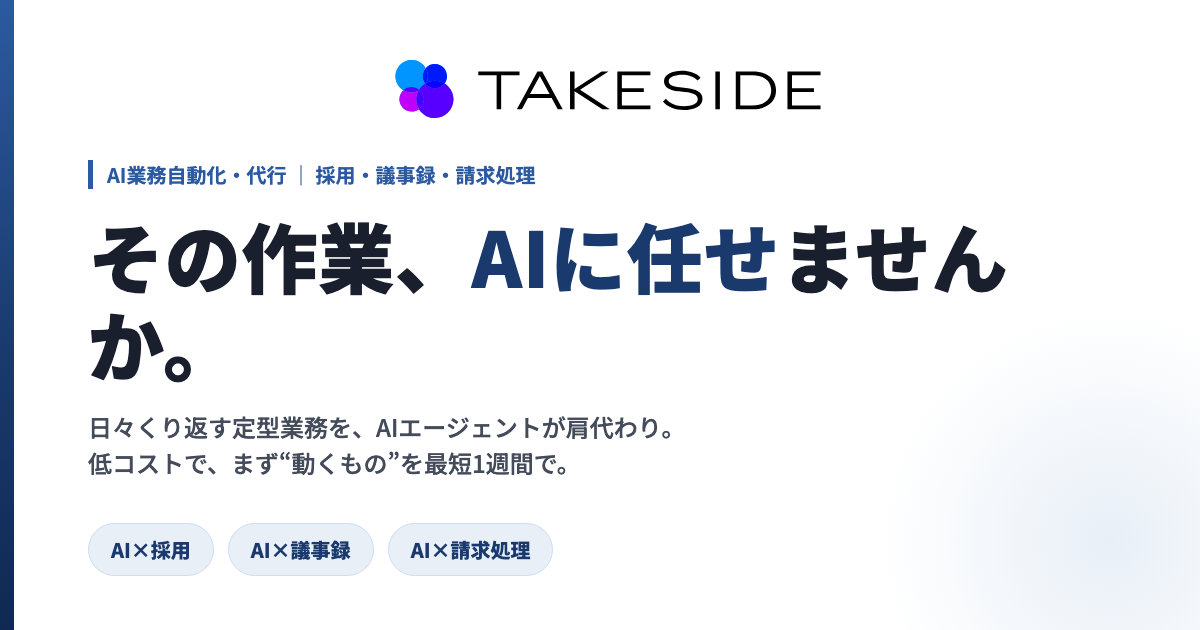
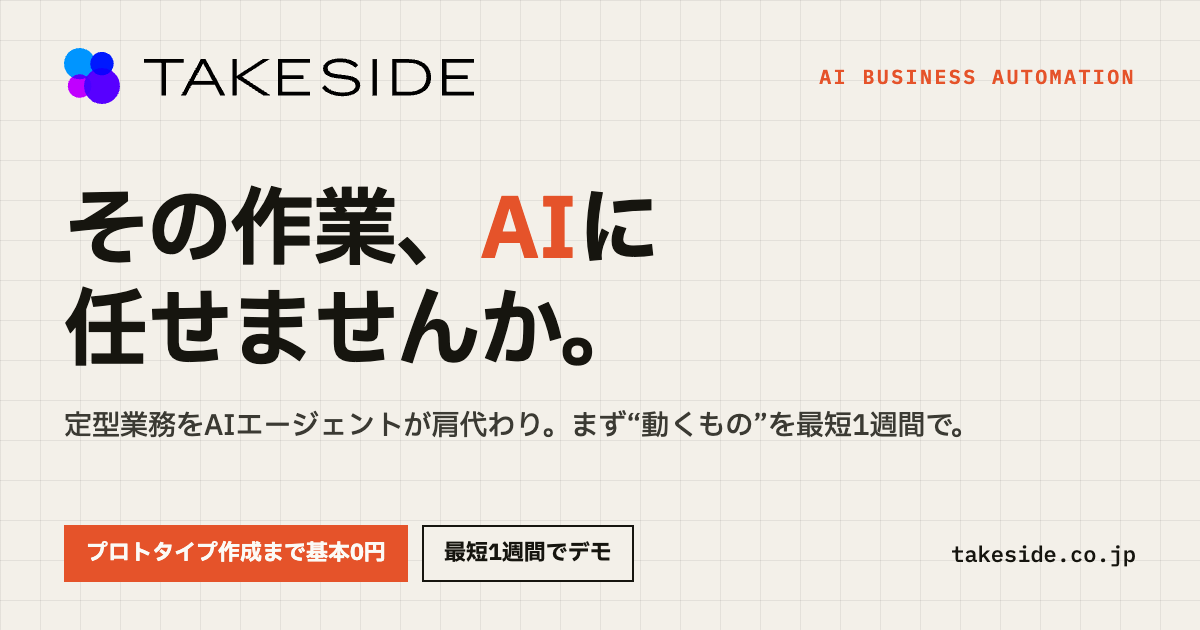
fix: 実績Aの金額を試算と明記し、OG画像を現行デザインに刷新
- 人件費削減を「人件費相当（試算）」に改め、597時間が40日間の値であることを明記
- index と works の注記を統一（処理件数・判定結果は実測、削減時間・処理スピード・金額は換算・試算）
- 実績Gの時点表記を2026年9月に更新
- OG画像を paper/ink/vermilion の現行デザインで作り直し、全ページの og:image:alt を更新
- sitemap の lastmod を更新

Changed region(s): [[0.0, 0.0, 0.9558, 1.0], [0.7708, 0.8746, 0.9558, 0.9048]]

diff --git a/index.html b/index.html
@@ -26,7 +26,7 @@
 <meta property="og:image" content="https://takeside.co.jp/og-image.png" />
 <meta property="og:image:width" content="1200" />
 <meta property="og:image:height" content="630" />
-<meta property="og:image:alt" content="テイクサイド株式会社 — 構想を、動く仕組みへ。最短距離で。" />
+<meta property="og:image:alt" content="テイクサイド株式会社 — その作業、AIに任せませんか。プロトタイプ作成まで基本0円・最短1週間でデモ。" />
 
 <!-- Twitter / X カード -->
 <meta name="twitter:card" content="summary_large_image" />
@@ -290,7 +290,7 @@
     <div class="section-head">
       <span class="eyebrow"><span class="idx">04</span>&nbsp;&nbsp;Works</span>
       <h2 class="h2">実際に、動いています。</h2>
-      <p class="lead">試作で終わらせず、本番運用まで届けた案件です。掲載実績12件から、効果を数値で確認できたものを抜粋しました。守秘に配慮し、一部は業種・規模で抽象化しています。</p>
+      <p class="lead">試作で終わらせず、本番運用まで届けた案件です。掲載実績12件から、効果を数値で示せるものを抜粋しました。守秘に配慮し、一部は業種・規模で抽象化しています。</p>
     </div>
 
     <!-- 実績の「総量」を先に置く。カード3枚だけだと“たまたま良い案件”に見えるため -->
@@ -306,9 +306,9 @@
         <span class="s">実績A・40日間の本番運用実測（手作業換算 76営業日分）</span>
       </div>
       <div class="wk-fig">
-        <span class="k">人件費削減</span>
+        <span class="k">人件費相当（試算）</span>
         <span class="v"><span class="approx">約</span>54<em>万円/月</em></span>
-        <span class="s">実績A・約597時間の削減（実測）</span>
+        <span class="s">実績A・40日間の削減時間 約597時間を月額に換算</span>
       </div>
       <div class="wk-fig">
         <span class="k">工数削減</span>
@@ -324,7 +324,7 @@
         <p class="wk-before"><span class="k">導入前</span>40日で605時間相当の全件チェックは人手では物理的に不可能で、確認しきれない死角が残っていた。</p>
         <p>重複判定・データ変換・実在性確認までを7ステップのパイプラインで自動化。人手では追えなかった全件チェックを実現しました。</p>
         <dl class="wk-metrics">
-          <div><dt>人件費削減</dt><dd>約54<em>万円/月</em></dd></div>
+          <div><dt>人件費相当（試算）</dt><dd>約54<em>万円/月</em></dd></div>
           <div><dt>処理スピード</dt><dd>約75<em>倍</em></dd></div>
         </dl>
         <span class="wk-more">この実績を見る →</span>
@@ -368,7 +368,7 @@
     </div>
 
     <a class="wk-all" href="works.html">実績12件をすべて見る →</a>
-    <p class="wk-note">※実績A・Bの数値は本番運用の実測値です（実績Aは 2026/3/23〜5/1 の実測データ）。効果は業務内容や導入環境により異なります。</p>
+    <p class="wk-note">※実績Aの処理件数・判定結果は 2026/3/23〜5/1 の本番運用における実測値です。削減時間・処理スピード・金額は、導入前の手作業（1件3分）をもとにした換算・試算値であり、実際に同額の費用が減少したことを示すものではありません。効果は業務内容や導入環境により異なります。</p>
   </div>
 </section>
 

diff --git a/works.html b/works.html
@@ -26,7 +26,7 @@
 <meta property="og:image" content="https://takeside.co.jp/og-image.png" />
 <meta property="og:image:width" content="1200" />
 <meta property="og:image:height" content="630" />
-<meta property="og:image:alt" content="テイクサイド株式会社 — 構想を、動く仕組みへ。最短距離で。" />
+<meta property="og:image:alt" content="テイクサイド株式会社 — その作業、AIに任せませんか。プロトタイプ作成まで基本0円・最短1週間でデモ。" />
 
 <!-- Twitter / X カード -->
 <meta name="twitter:card" content="summary_large_image" />
@@ -154,10 +154,10 @@
             </ul>
           </div>
           <div class="wd-panel">
-            <span class="wd-panel-head">実測データに基づく成果指標（約40日間）</span>
+            <span class="wd-panel-head">本番運用データに基づく成果指標（約40日間）</span>
             <div class="wd-metrics">
               <div class="wd-metric"><span class="k">累計処理件数</span><span class="v">12,103件（手作業換算 76営業日分）</span></div>
-              <div class="wd-metric"><span class="k">人件費削減</span><span class="v">約54万円 / 月（約597時間削減）</span></div>
+              <div class="wd-metric"><span class="k">人件費相当（試算）</span><span class="v">約54万円 / 月（40日間の削減時間 約597時間を月額に換算）</span></div>
               <div class="wd-metric"><span class="k">処理スピード</span><span class="v">手作業の約75倍（3分→2.42秒/件）</span></div>
               <div class="wd-metric"><span class="k">死角解消</span><span class="v">月平均 約2,500件のリスク候補を検知</span></div>
             </div>
@@ -177,7 +177,7 @@
           <span class="wd-pill">Tavily Search API</span>
           <span class="wd-pill">Playwright（自動証跡取得）</span>
         </div>
-        <p class="wd-foot">※本数値は 2026/3/23〜5/1 の本番運用実測データです。</p>
+        <p class="wd-foot">※処理件数・判定結果は 2026/3/23〜5/1 の本番運用における実測値です。削減時間・処理スピード・金額は、導入前の手作業（1件3分）をもとにした換算・試算値であり、実際に同額の費用が減少したことを示すものではありません。効果は業務内容や導入環境により異なります。</p>
       </article>
 
       <!-- 02 / 12 -->
@@ -417,7 +417,7 @@
           <span class="wd-pill ai">Claude API</span>
           <span class="wd-pill">Vitest</span>
         </div>
-        <p class="wd-foot">※自社開発プロダクト（開発中）。記載は2026年5月時点の実装状況です。</p>
+        <p class="wd-foot">※自社開発プロダクト（開発中）。記載は2026年9月時点の実装状況です。</p>
       </article>
 
       <!-- 08 / 12 -->

diff --git a/contact.html b/contact.html
@@ -26,7 +26,7 @@
 <meta property="og:image" content="https://takeside.co.jp/og-image.png" />
 <meta property="og:image:width" content="1200" />
 <meta property="og:image:height" content="630" />
-<meta property="og:image:alt" content="テイクサイド株式会社 — 構想を、動く仕組みへ。最短距離で。" />
+<meta property="og:image:alt" content="テイクサイド株式会社 — その作業、AIに任せませんか。プロトタイプ作成まで基本0円・最短1週間でデモ。" />
 
 <!-- Twitter / X カード -->
 <meta name="twitter:card" content="summary_large_image" />

diff --git a/pricing.html b/pricing.html
@@ -26,7 +26,7 @@
 <meta property="og:image" content="https://takeside.co.jp/og-image.png" />
 <meta property="og:image:width" content="1200" />
 <meta property="og:image:height" content="630" />
-<meta property="og:image:alt" content="テイクサイド株式会社 — 構想を、動く仕組みへ。最短距離で。" />
+<meta property="og:image:alt" content="テイクサイド株式会社 — その作業、AIに任せませんか。プロトタイプ作成まで基本0円・最短1週間でデモ。" />
 
 <!-- Twitter / X カード -->
 <meta name="twitter:card" content="summary_large_image" />

diff --git a/service.html b/service.html
@@ -26,7 +26,7 @@
 <meta property="og:image" content="https://takeside.co.jp/og-image.png" />
 <meta property="og:image:width" content="1200" />
 <meta property="og:image:height" content="630" />
-<meta property="og:image:alt" content="テイクサイド株式会社 — 構想を、動く仕組みへ。最短距離で。" />
+<meta property="og:image:alt" content="テイクサイド株式会社 — その作業、AIに任せませんか。プロトタイプ作成まで基本0円・最短1週間でデモ。" />
 
 <!-- Twitter / X カード -->
 <meta name="twitter:card" content="summary_large_image" />
